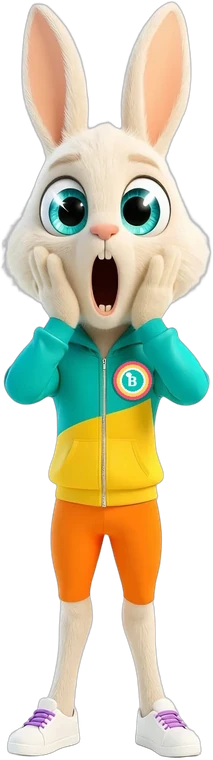
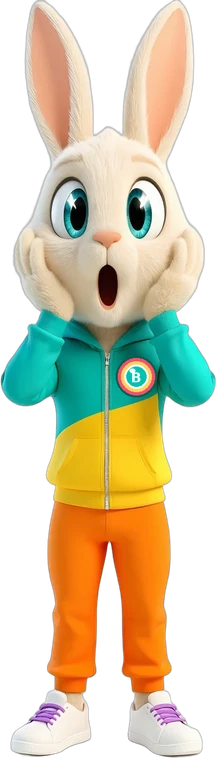
New Cordie: wow in long pants, plus sad, think, wave and face; sad on a balloon miss, wave in the lobby hello
Claude-Session: https://claude.ai/code/session_01UFwaAvE9Qev2U3W1b6GA4j

diff --git a/bingo-bloom.html b/bingo-bloom.html
@@ -4261,7 +4261,7 @@ function cordieBase(el, pose) { el = typeof el === 'string' ? document.querySele
 document.addEventListener('pointerdown', function (e) {
   var c = e.target.closest && e.target.closest('.cordie'); if (!c || c.classList.contains('quiet')) return;
   var r = c.getBoundingClientRect(); sparkle(r.left + r.width / 2, r.top + r.height * .35, 10); SFX.tap && SFX.tap();
-  cordieReact(c, ['cheer', 'wow', 'point'][rand(3)], ['hop', 'wiggle', 'spin', 'jump'][rand(4)], 1400);
+  cordieReact(c, ['cheer', 'wow', 'point', 'wave', 'think'][rand(5)], ['hop', 'wiggle', 'spin', 'jump'][rand(4)], 1400);
   var pop = c.closest('.cordie-pop'); if (pop) { var b = pop.querySelector('.cbub'); if (b) { b.textContent = CORDIE_TAP_LINES[rand(CORDIE_TAP_LINES.length)]; b.classList.remove('pop'); void b.offsetWidth; b.classList.add('pop'); } clearTimeout(pop._bye); pop._bye = setTimeout(function () { if (pop.isConnected && pop.onclick) pop.onclick(null); }, 4000); }
 }, true);
 // a little life: every few seconds one visible Cordie wiggles or glances
@@ -4286,7 +4286,7 @@ function cordieHello() {
   if (CORDIE_HI) return; CORDIE_HI = true;
   var h = new Date().getHours(), part = h < 12 ? 'Good morning' : h < 17 ? 'Good afternoon' : 'Good evening', nm = myName();
   var lines = [part + (nm && nm !== 'Player' ? ', <b>' + esc(nm) + '</b>' : '') + '. The cards are ready whenever you are.', 'Welcome back' + (nm && nm !== 'Player' ? ', <b>' + esc(nm) + '</b>' : '') + '. The ovens are warm and the balls are rolling.', 'Bonjour! I saved you the best seat in the house.'];
-  setTimeout(function () { if ($('#lobby') && !veil && !$('.csweep')) cordieSay(Math.random() < .5 ? 'point' : 'cheer', lines[rand(lines.length)], 3000); }, $('.csweep') ? 3500 : 700);
+  setTimeout(function () { if ($('#lobby') && !veil && !$('.csweep')) cordieSay(['wave', 'point', 'cheer'][rand(3)], lines[rand(lines.length)], 3000); }, $('.csweep') ? 3500 : 700);
 }
 
 /* ---------- reward celebrations: queued so they never interrupt a round or another pop-up ---------- */
@@ -7161,7 +7161,7 @@ function missionPanel() {
       ['#mVineL', '#mVineR', '#mScBall'].forEach(function (id) { var e = $(id, v); if (e) e.style.setProperty('--p', pc); });
       var L = $('#mLights', v); if (L) [].forEach.call(L.children, function (x, i) { x.classList.toggle('on', i < Math.round(pc / 100 * 12)); });
     }
-    function act(bad) { var c = $('#mCordie', v); if (!c) return; cordieReact(c, bad ? 'wow' : 'cheer', bad ? 'sad' : 'hop', 1300); }
+    function act(bad) { var c = $('#mCordie', v); if (!c) return; cordieReact(c, bad ? 'sad' : 'cheer', bad ? 'sad' : 'hop', 1300); }
     function stream(toEl, ic, n) { var c = $('#mCordie', v); for (var k = 0; k < n; k++) (function (k) { setTimeout(function () { flyTo(c, toEl, ic, function () {}); }, k * 90); })(k); }
     function goldBonus(cell) {
       var opts = [{ t: 'coins', n: 150 }, { t: 'scratch', n: 1 }, { t: 'card', n: 1 }, { t: 'tickets', n: 25 }], pk = opts[rand(opts.length)], tx = grant(pk); m.bonus.push(pk.t); save(); refreshTop();
@@ -7323,7 +7323,7 @@ var STORIES = {
 };
 var RIO_POSE = { point: 'rio-point', wow: 'rio-cheer', cheer: 'rio-cheer', wave: 'rio-wave', stand: 'rio-wave', gift: 'rio-maraca' };
 // poses drawn in the new Cordie design; anything else falls back to a new-design pose until its art arrives
-var CORDIE_NEW = { stand: 1, gift: 1, wow: 1, point: 1, cheer: 1 }, CORDIE_FALLBACK = { sleep: 'stand', face: 'stand', wave: 'point', think: 'wow', sad: 'wow' };
+var CORDIE_NEW = { stand: 1, gift: 1, wow: 1, point: 1, cheer: 1, sad: 1, think: 1, wave: 1, face: 1 }, CORDIE_FALLBACK = { sleep: 'think' };
 function cordieArt(pose) {
   var p = (S.city === 'rio' && RIO_POSE[pose] && CORDIE_NEW[RIO_POSE[pose]]) ? RIO_POSE[pose] : pose;
   if (!CORDIE_NEW[p]) p = CORDIE_FALLBACK[p] || 'stand';

diff --git a/game.html b/game.html
@@ -4263,7 +4263,7 @@ function cordieBase(el, pose) { el = typeof el === 'string' ? document.querySele
 document.addEventListener('pointerdown', function (e) {
   var c = e.target.closest && e.target.closest('.cordie'); if (!c || c.classList.contains('quiet')) return;
   var r = c.getBoundingClientRect(); sparkle(r.left + r.width / 2, r.top + r.height * .35, 10); SFX.tap && SFX.tap();
-  cordieReact(c, ['cheer', 'wow', 'point'][rand(3)], ['hop', 'wiggle', 'spin', 'jump'][rand(4)], 1400);
+  cordieReact(c, ['cheer', 'wow', 'point', 'wave', 'think'][rand(5)], ['hop', 'wiggle', 'spin', 'jump'][rand(4)], 1400);
   var pop = c.closest('.cordie-pop'); if (pop) { var b = pop.querySelector('.cbub'); if (b) { b.textContent = CORDIE_TAP_LINES[rand(CORDIE_TAP_LINES.length)]; b.classList.remove('pop'); void b.offsetWidth; b.classList.add('pop'); } clearTimeout(pop._bye); pop._bye = setTimeout(function () { if (pop.isConnected && pop.onclick) pop.onclick(null); }, 4000); }
 }, true);
 // a little life: every few seconds one visible Cordie wiggles or glances
@@ -4288,7 +4288,7 @@ function cordieHello() {
   if (CORDIE_HI) return; CORDIE_HI = true;
   var h = new Date().getHours(), part = h < 12 ? 'Good morning' : h < 17 ? 'Good afternoon' : 'Good evening', nm = myName();
   var lines = [part + (nm && nm !== 'Player' ? ', <b>' + esc(nm) + '</b>' : '') + '. The cards are ready whenever you are.', 'Welcome back' + (nm && nm !== 'Player' ? ', <b>' + esc(nm) + '</b>' : '') + '. The ovens are warm and the balls are rolling.', 'Bonjour! I saved you the best seat in the house.'];
-  setTimeout(function () { if ($('#lobby') && !veil && !$('.csweep')) cordieSay(Math.random() < .5 ? 'point' : 'cheer', lines[rand(lines.length)], 3000); }, $('.csweep') ? 3500 : 700);
+  setTimeout(function () { if ($('#lobby') && !veil && !$('.csweep')) cordieSay(['wave', 'point', 'cheer'][rand(3)], lines[rand(lines.length)], 3000); }, $('.csweep') ? 3500 : 700);
 }
 
 /* ---------- reward celebrations: queued so they never interrupt a round or another pop-up ---------- */
@@ -7163,7 +7163,7 @@ function missionPanel() {
       ['#mVineL', '#mVineR', '#mScBall'].forEach(function (id) { var e = $(id, v); if (e) e.style.setProperty('--p', pc); });
       var L = $('#mLights', v); if (L) [].forEach.call(L.children, function (x, i) { x.classList.toggle('on', i < Math.round(pc / 100 * 12)); });
     }
-    function act(bad) { var c = $('#mCordie', v); if (!c) return; cordieReact(c, bad ? 'wow' : 'cheer', bad ? 'sad' : 'hop', 1300); }
+    function act(bad) { var c = $('#mCordie', v); if (!c) return; cordieReact(c, bad ? 'sad' : 'cheer', bad ? 'sad' : 'hop', 1300); }
     function stream(toEl, ic, n) { var c = $('#mCordie', v); for (var k = 0; k < n; k++) (function (k) { setTimeout(function () { flyTo(c, toEl, ic, function () {}); }, k * 90); })(k); }
     function goldBonus(cell) {
       var opts = [{ t: 'coins', n: 150 }, { t: 'scratch', n: 1 }, { t: 'card', n: 1 }, { t: 'tickets', n: 25 }], pk = opts[rand(opts.length)], tx = grant(pk); m.bonus.push(pk.t); save(); refreshTop();
@@ -7325,7 +7325,7 @@ var STORIES = {
 };
 var RIO_POSE = { point: 'rio-point', wow: 'rio-cheer', cheer: 'rio-cheer', wave: 'rio-wave', stand: 'rio-wave', gift: 'rio-maraca' };
 // poses drawn in the new Cordie design; anything else falls back to a new-design pose until its art arrives
-var CORDIE_NEW = { stand: 1, gift: 1, wow: 1, point: 1, cheer: 1 }, CORDIE_FALLBACK = { sleep: 'stand', face: 'stand', wave: 'point', think: 'wow', sad: 'wow' };
+var CORDIE_NEW = { stand: 1, gift: 1, wow: 1, point: 1, cheer: 1, sad: 1, think: 1, wave: 1, face: 1 }, CORDIE_FALLBACK = { sleep: 'think' };
 function cordieArt(pose) {
   var p = (S.city === 'rio' && RIO_POSE[pose] && CORDIE_NEW[RIO_POSE[pose]]) ? RIO_POSE[pose] : pose;
   if (!CORDIE_NEW[p]) p = CORDIE_FALLBACK[p] || 'stand';

diff --git a/index.html b/index.html
@@ -7,5 +7,5 @@ html,body{margin:0;height:100%;overflow:hidden;background:#2a0c46}
   #g{width:100vh;height:100vw;width:100dvh;height:100dvw;transform-origin:top left;transform:rotate(90deg) translateY(-100%)}
 }
 </style></head><body>
-<iframe id="g" src="game.html?v=6d32e22948" title="Bingo Bloom" allow="fullscreen; autoplay; screen-wake-lock"></iframe>
+<iframe id="g" src="game.html?v=534996a4b1" title="Bingo Bloom" allow="fullscreen; autoplay; screen-wake-lock"></iframe>
 </body></html>
